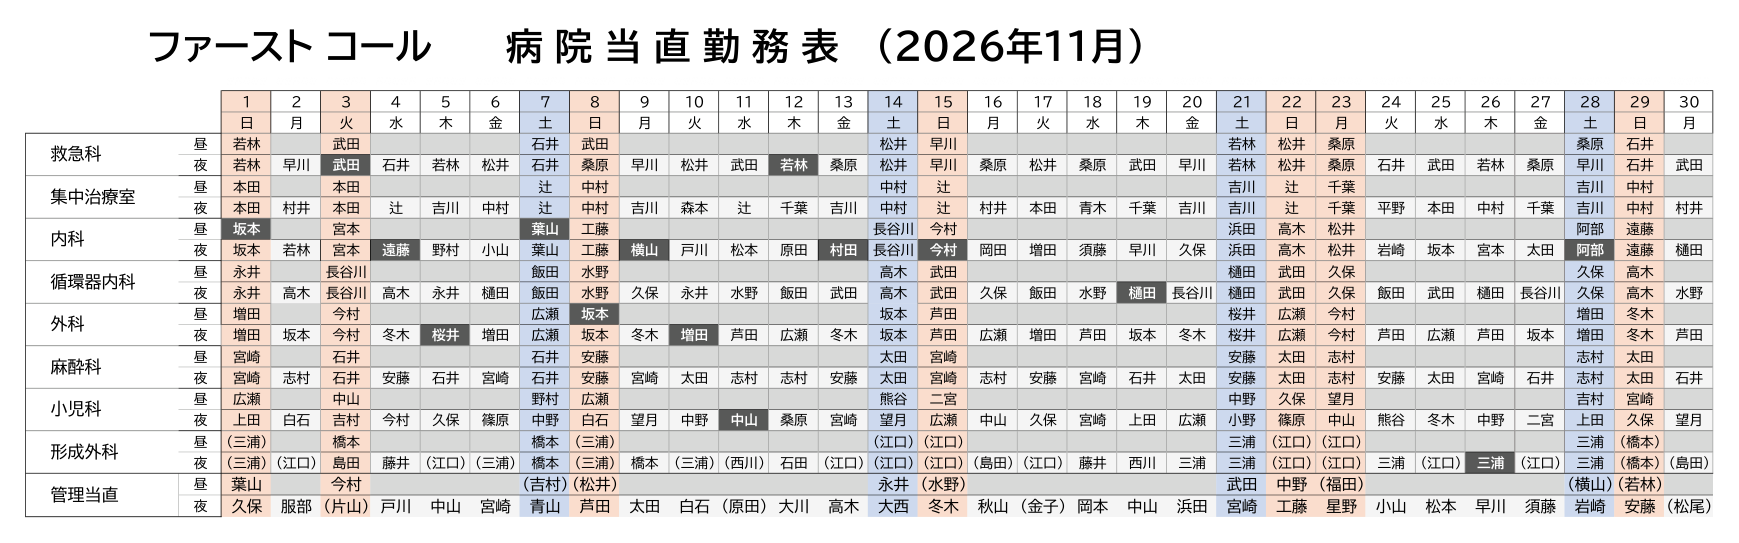
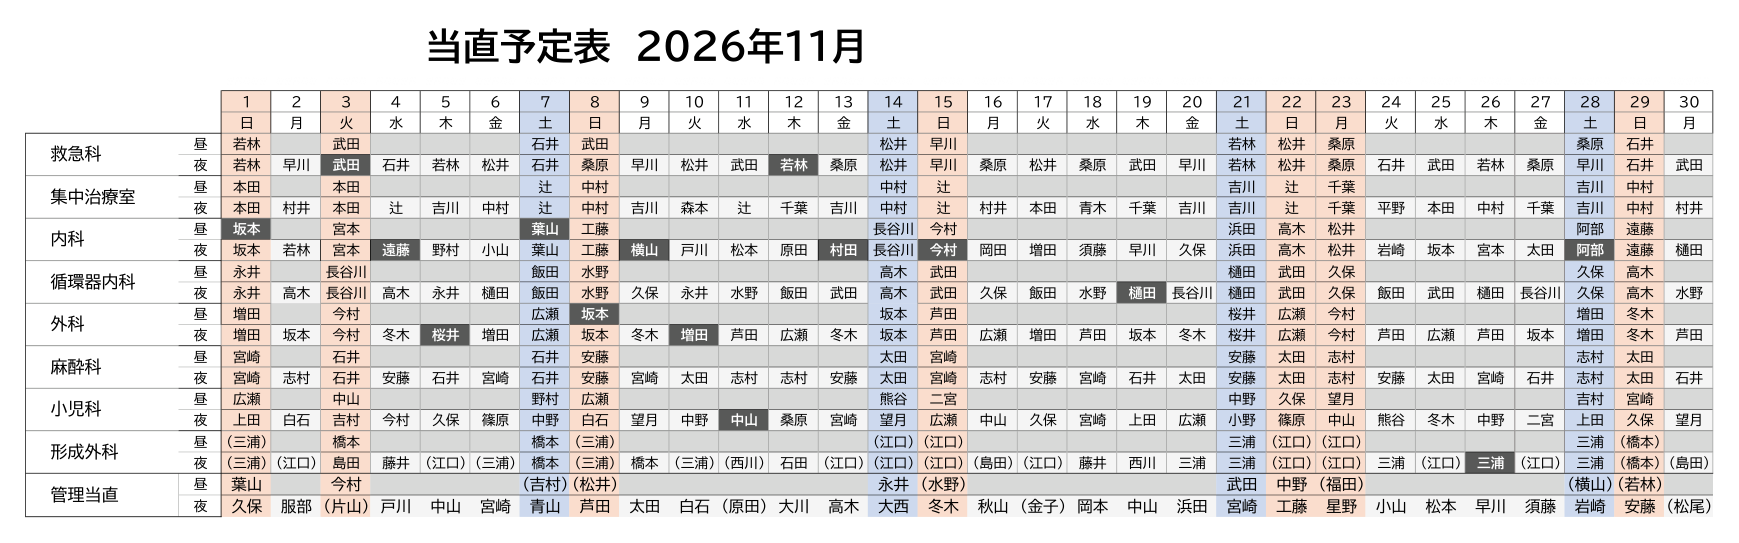
見本を更新

Changed region(s): [[0.0932, 0.0295, 0.6521, 0.1179]]

diff --git a/README.md b/README.md
@@ -41,11 +41,11 @@ Dr.JOY の画面を自動で操作する部分は、Dr.JOY の画面が変わる
 
 ![当直枠専用グループの入力画面](docs/images/画面_当直枠専用グループ.png)
 
-各科の入力を集めてできあがる当直表（ファーストコールの表）の見本です（名前と科の並びは架空です）。
+各科の入力を集めてできあがる当直予定表の見本です（名前と科の並びは架空です）。
 毎日決まった時刻に Excel の当直表へ書き込み、PDF にして院内に公開します。
 名前だけが当直、`(名前)` がオンコール、灰色の地が当番当直です。
 
-![当直表（ファーストコール）の見本](docs/images/当直表_ファースト.png)
+![当直予定表の見本](docs/images/当直表_ファースト.png)
 
 ## しくみ
 
